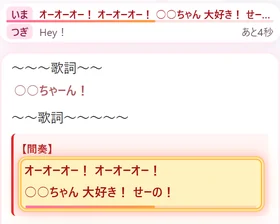
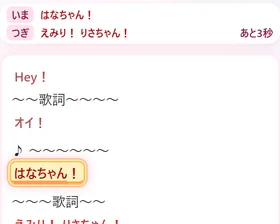
名前コールを call-names の判定に切り替え・カードの見本画像を撮り直し・同期の細かい直し
- js/liveCallNames.js：取り込んだ js/callNameColors.js の classifyCallNames を使う（1人・複数・or・なし）。
  「or」は「or」「／」の所だけ控えめに（「！」はそのまま）。結果が壊れていたら通常に倒す。
- ライブコール：設定を開いているときも、コール表の箱を下の再生の操作に隠れない高さにする（光っているコールが隠れていた）。
- カラオケ：一時停止中に音源の位置が動いたら、すぐその位置の見た目に（seeked で描き直す。新しいカラオケだけ）。
- 3つのカードの見本画像（sheet・live・karaoke）を、今の画面とダミーの文字で撮り直した。代わりの文字も合わせた。
- テスト：本物の判定での or・multi・none と、「or」の印の付け方を足した。

diff --git a/js/liveCallScreen.js b/js/liveCallScreen.js
@@ -530,10 +530,12 @@ function modeCard({ id, title, description, availability, onOpen }) {
 // 作り直し：renewal-notes/livecall-visuals/capture_previews.py（Git に入れない）。表示は 140×112（画像は2倍の 280×224）
 // 【2026-10-30 夜】ライブコール（つぎ の残り時間）・カラオケ（新しい演出）を、同じダミーの文字で撮り直した（renewal-notes/night-live/capture_dummy.py）
 export const PREVIEW_IMAGE_SIZE = { width: 280, height: 224 };
+// 【2026-10-31 live-unify】3つとも、今の画面（モードの切り替え・名前コールの色・カラオケの赤いコール）をダミーの文字で撮り直した
+//   （renewal-notes/live-unify/capture_dummy.py。名前はメンバーの呼び名だけ。歌詞・コール本文は入れていない）
 export const LIVE_CALL_MODE_PREVIEWS = {
-  sheet: { src: "./assets/images/live-call-previews/sheet.webp", alt: "コール表の見本：黒い歌詞の行と赤いコール、【間奏】の見出し（文字はダミー）" },
-  live: { src: "./assets/images/live-call-previews/live.webp", alt: "ライブコールの見本：いま／つぎ の表示と、光っている長いコールの進み具合のバー（文字はダミー）" },
-  karaoke: { src: "./assets/images/live-call-previews/karaoke.webp", alt: "カラオケの見本：暗い舞台に歌詞の行（今の行が白く光る）と、光っているコールのカード（文字はダミー）" },
+  sheet: { src: "./assets/images/live-call-previews/sheet.webp", alt: "コール表の見本：黒い歌詞の行と、その間の赤いコール（文字はダミー）" },
+  live: { src: "./assets/images/live-call-previews/live.webp", alt: "ライブコールの見本：いま／つぎ の表示と、光っている名前コール（名前の下にメンバーカラーの線。文字はダミー）" },
+  karaoke: { src: "./assets/images/live-call-previews/karaoke.webp", alt: "カラオケの見本：暗い舞台に歌詞の行と赤いコール。今の行と今のコールが光る（文字はダミー）" },
 };
 
 async function renderSongPage() {
@@ -825,6 +827,7 @@ function renderLiveMode() {
     panel.hidden = !prefs.panel;
     panelToggle.classList.toggle("is-selected", prefs.panel);
     panelToggle.setAttribute("aria-pressed", String(prefs.panel));
+    fitLiveStage();
     remeasure();
   });
   panelToggle.setAttribute("aria-pressed", String(prefs.panel));
@@ -978,6 +981,7 @@ function renderLiveMode() {
   objectUrl = URL.createObjectURL(blob);
   audio.src = objectUrl;
   requestAnimationFrame(() => {
+    fitLiveStage();
     remeasure();
     renderFrame({ force: true });
   });
@@ -1015,16 +1019,20 @@ export function computeLiveStageHeight({ viewportH, stageTop, playerH, gap = 8, 
   if (![viewportH, stageTop, playerH].every(Number.isFinite)) return null;
   return Math.max(min, Math.round(viewportH - stageTop - playerH - gap));
 }
+// 【2026-10-31 live-unify】開いているときも、画面の下の再生の操作に隠れない高さにする（以前は開いている間 CSS の 62dvh のままで、
+//   箱の下の部分が再生の操作の後ろに隠れ、そこで光っているコールが見えないことがあった）。開いているときは少し低くてもよい（最小 200px）
+export const LIVE_STAGE_MIN_OPEN_PX = 200;
 function fitLiveStage() {
   if (!live) return;
   const { stage } = live;
-  if (!live.toolbarCollapsed) {
-    stage.style.removeProperty("height");
-    return;
-  }
   // 画面の一番上から見たときの位置で測る（ページを少しスクロールしていても、同じ高さになるように）
   const stageTop = stage.getBoundingClientRect().top + window.scrollY;
-  const height = computeLiveStageHeight({ viewportH: window.innerHeight, stageTop, playerH: live.player.getBoundingClientRect().height });
+  const height = computeLiveStageHeight({
+    viewportH: window.innerHeight,
+    stageTop,
+    playerH: live.player.getBoundingClientRect().height,
+    min: live.toolbarCollapsed ? LIVE_STAGE_MIN_PX : LIVE_STAGE_MIN_OPEN_PX,
+  });
   if (height !== null) stage.style.height = `${height}px`;
 }
 

diff --git a/js/liveCallNames.js b/js/liveCallNames.js
@@ -1,7 +1,7 @@
 // 新しいライブコール・新しいカラオケの「名前コール」の見た目（2026-10-31 live-unify）。
 // 名前の判定そのものは、ここでは作らない。判定は次のどちらかを使い、このファイルは「どう見せるか」だけを受け持つ：
-//   ・js/callNameColors.js の classifyCallNames（別の担当が作る、公式に確かめた名前・愛称の表）… 取り込めたら、こちらを使う
-//   ・取り込めていない間は、今までの判定（js/callEffects.js の memberIdForCallText：文字列がまるごと1人の名前・愛称と一致したときだけ）
+//   ・js/callNameColors.js の classifyCallNames（別の担当が作った、公式に確かめた名前・愛称の表）… 2026-10-31 に取り込んだ。ふだんはこちら
+//   ・それが例外を出したときだけ、今までの判定（js/callEffects.js の memberIdForCallText：文字列がまるごと1人の名前・愛称と一致したときだけ）
 // 【本人の決まり】
 //   ・コール1件は最後まで1件。名前の部分に色を付けるのは「文字の装飾」だけ（区切って別々に光らせない・順番に光らせない）。
 //   ・parts をつなげると、必ず元の文字列に戻る（文字を足したり消したりしない）。戻らないときは、色を付けずに元の文字列のまま出す。
@@ -10,9 +10,8 @@
 import { MEMBERS } from "./data/members.js";
 import { MEMBER_PROFILES } from "./data/memberProfiles.js";
 import { buildMemberNameIndex, memberIdForCallText } from "./callEffects.js";
-// 【取り込み待ち】js/callNameColors.js（ブランチ call-names）を取り込んだら、次の1行を有効にし、下の classifyFromNameTable = null を消す
-// import { classifyCallNames as classifyFromNameTable } from "./callNameColors.js";
-const classifyFromNameTable = null;
+// 【2026-10-31】ブランチ call-names（タグ call-names-ready）を取り込んだ：公式に確かめた名前・愛称の表での判定を使う
+import { classifyCallNames as classifyFromNameTable } from "./callNameColors.js";
 
 export const NAME_KINDS = { NONE: "none", SINGLE: "single", MULTI: "multi", OR: "or" };
 
@@ -84,6 +83,20 @@ export function nameCallAccent(result) {
   return { primary: colors[0], colors, gradient, kind: result.kind };
 }
 
+const OR_MARK = /(?<![A-Za-z])(?:or|OR|Or|／|\/)(?![A-Za-z])/g;
+function appendWithOrMarks(target, text) {
+  let last = 0;
+  for (const match of text.matchAll(OR_MARK)) {
+    if (match.index > last) target.appendChild(document.createTextNode(text.slice(last, match.index)));
+    const sep = document.createElement("span");
+    sep.className = "cx-name-sep";
+    sep.textContent = match[0];
+    target.appendChild(sep);
+    last = match.index + match[0].length;
+  }
+  if (last < text.length) target.appendChild(document.createTextNode(text.slice(last)));
+}
+
 // target の中身を、名前の部分だけ色の付いた span にして描く（文字はそのまま。つなげると元の文字列）。
 // 名前ではない部分は文字のまま。「or」のときは、名前ではない部分（「 or 」など）に印（cx-name-sep）を付けて控えめに見せる
 export function renderNameCallText(target, text, result = describeNameCall(text)) {
@@ -103,11 +116,9 @@ export function renderNameCallText(target, text, result = describeNameCall(text)
       span.textContent = part.text;
       target.appendChild(span);
       named += 1;
-    } else if (result.kind === NAME_KINDS.OR && part.text.trim()) {
-      const sep = document.createElement("span");
-      sep.className = "cx-name-sep";
-      sep.textContent = part.text;
-      target.appendChild(sep);
+    } else if (result.kind === NAME_KINDS.OR) {
+      // 「or」「／」の所だけに印（控えめに見せる）。「！」などほかの文字はそのまま
+      appendWithOrMarks(target, part.text);
     } else {
       target.appendChild(document.createTextNode(part.text));
     }

diff --git a/tests/liveCallUnify.test.js b/tests/liveCallUnify.test.js
@@ -29,6 +29,7 @@ import {
 import { applyNameCallDecoration, resolveLiveEffectsPref, LIVE_EFFECTS_LABELS } from "../js/liveCallScreen.js";
 import { buildModeTabs, LIVE_CALL_MODE_TABS } from "../js/liveCallModeTabs.js";
 import { MEMBERS } from "../js/data/members.js";
+import { CALL_NAME_ENTRIES } from "../js/data/callNameDictionary.js";
 
 const base = new URL("../", import.meta.url);
 const fetchText = async (file) => (await fetch(new URL(file, base), { cache: "no-store" })).text();
@@ -201,7 +202,21 @@ function runNameTests() {
     renderNameCallText(plain, "オイ！", describeNameCall("オイ！"));
     assertEqual([plain.textContent, plain.children.length], ["オイ！", 0], "D: 名前でないコールは文字だけ（飾りなし）");
   }
-  assertEqual(["callNameColors", "fallback"].includes(NAME_CALL_SOURCE), true, "D: 判定の出どころ（call-names の表／今までの判定）が分かる");
+  assertEqual(NAME_CALL_SOURCE, "callNameColors", "D: 判定は call-names の表（js/callNameColors.js）を使う");
+  // 本物の判定で：名前の表にある書き方を2つ使った「or」と「並べて呼ぶ」（名前だけ。歌詞・コール本文ではない）
+  const [e1, e2] = CALL_NAME_ENTRIES.filter((entry) => MEMBERS.some((m) => m.id === entry.memberId)).slice(0, 2);
+  const nameA = e1.forms[0];
+  const nameB = e2.forms[0];
+  const orReal = describeNameCall(`${nameA}！ or ${nameB}！`);
+  assertEqual([orReal.kind, orReal.members], ["or", [e1.memberId, e2.memberId]], "D: 本物の判定：「A！ or B！」は or（候補）");
+  const multiReal = describeNameCall(`${nameA}！${nameB}！`);
+  assertEqual([multiReal.kind, multiReal.members.length], ["multi", 2], "D: 本物の判定：2人を並べて呼ぶと multi");
+  assertEqual(describeNameCall("わーわー！").kind, "none", "D: 本物の判定：名前ではない言葉は none");
+  if (typeof document !== "undefined") {
+    const box = document.createElement("span");
+    renderNameCallText(box, `${nameA}！ or ${nameB}！`, orReal);
+    assertEqual([box.textContent, [...box.querySelectorAll(".cx-name-sep")].map((n) => n.textContent), box.querySelectorAll(".cx-name-part").length], [`${nameA}！ or ${nameB}！`, ["or"], 2], "D: or：「or」の所だけ控えめに（「！」はそのまま）。名前は2つとも色");
+  }
 }
 
 async function runKaraokeTests() {

diff --git a/js/karaokeSyncScreen.js b/js/karaokeSyncScreen.js
@@ -899,6 +899,10 @@ export function initKaraokeSyncScreen(newElements) {
 
   elements.startButton.addEventListener("click", handleStartButtonClick);
   elements.deviceAudio.addEventListener("ended", handleDeviceAudioEnded);
+  // 【2026-10-31 live-unify】新しいカラオケだけ：一時停止中に音源の位置が動いたとき（位置のバー・行のタップ・端末の操作）も、すぐその位置の見た目に
+  elements.deviceAudio.addEventListener("seeked", () => {
+    if (followDeviceAudio && syncState.isSyncing) tick();
+  });
   elements.pauseResumeButton.addEventListener("click", handleMainPauseResumeClick);
 
   elements.offsetMinus05Button.addEventListener("click", () => applyOffsetDelta(-OFFSET_STEP_BIG_MS));

diff --git a/css/karaokeStage.css b/css/karaokeStage.css
@@ -570,7 +570,8 @@
   padding: 0 10px 8px;
 }
 #live-call-mode-karaoke-screen.kx-on .kx-toolbar .lc-mode-tabs {
-  flex: 1 1 200px;
+  flex: 1 1 auto;
+  min-width: 0;
 }
 #live-call-mode-karaoke-screen.kx-on .kx-toolbar .lc-mode-tab {
   min-height: 38px;
@@ -581,7 +582,7 @@
 #live-call-mode-karaoke-screen.kx-on .kx-calls-switch {
   flex: 0 0 auto;
   min-height: 44px;
-  padding: 4px 12px;
+  padding: 4px 10px;
   border: 1.5px solid #b9a8b3;
   border-radius: 999px;
   background: #fff;
